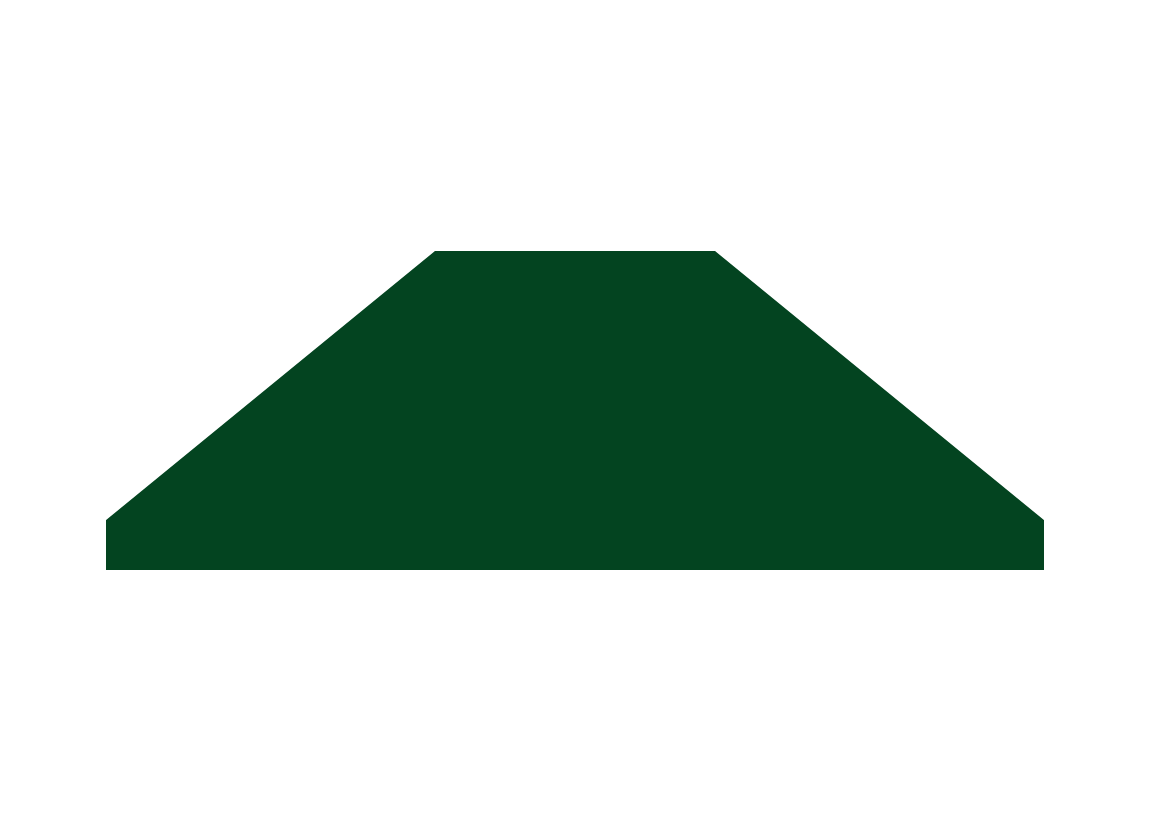
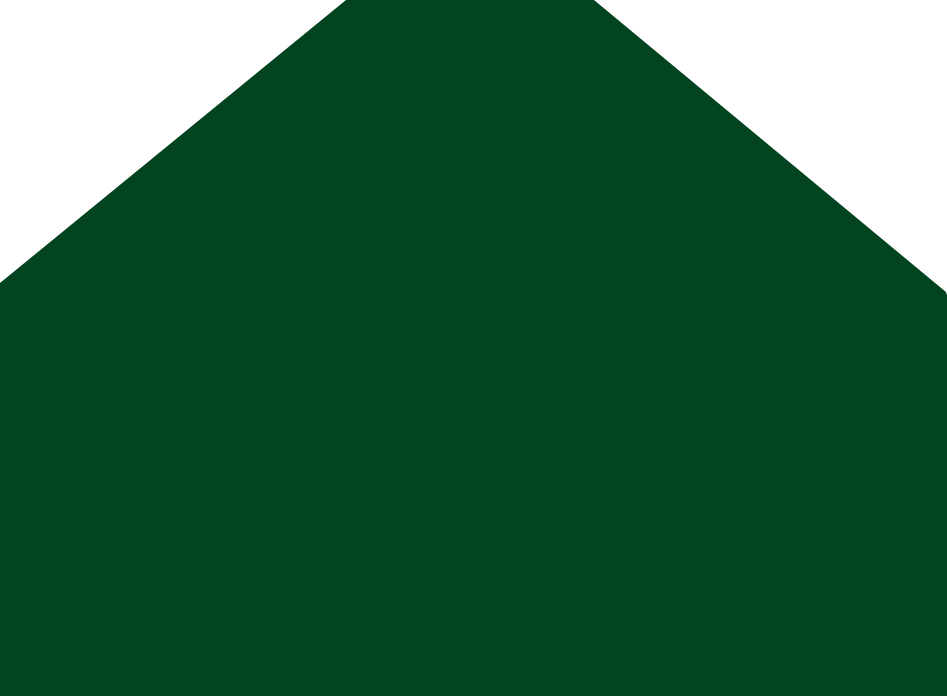
teste

diff --git a/App.js b/App.js
@@ -19,7 +19,7 @@ export default function App() {
         </View>
 
         <View style={styles.main}>
-          <View>
+          <View style={styles.ViewRetangulo}>
             <Image
                   style={styles.retangulo}
                   source={require('./assets/Retangulo.png')}
@@ -59,13 +59,24 @@ const styles = StyleSheet.create({
   },
   main:{
     height:'80%',
+    width:'100%'
   },
   retangulo:{
     width:'100%',
     height:'100%',
+    
+    
+  },
+  ViewRetangulo: {
+    height:'35%',
+    margin:0,
+    padding:0,
+    width:'100%',
+    position: 'absolute',
+    bottom: 0
   },
   footer:{
-    height:'10%',
+    height:'20%',
     backgroundColor:'#19aa6d'
   }
 
